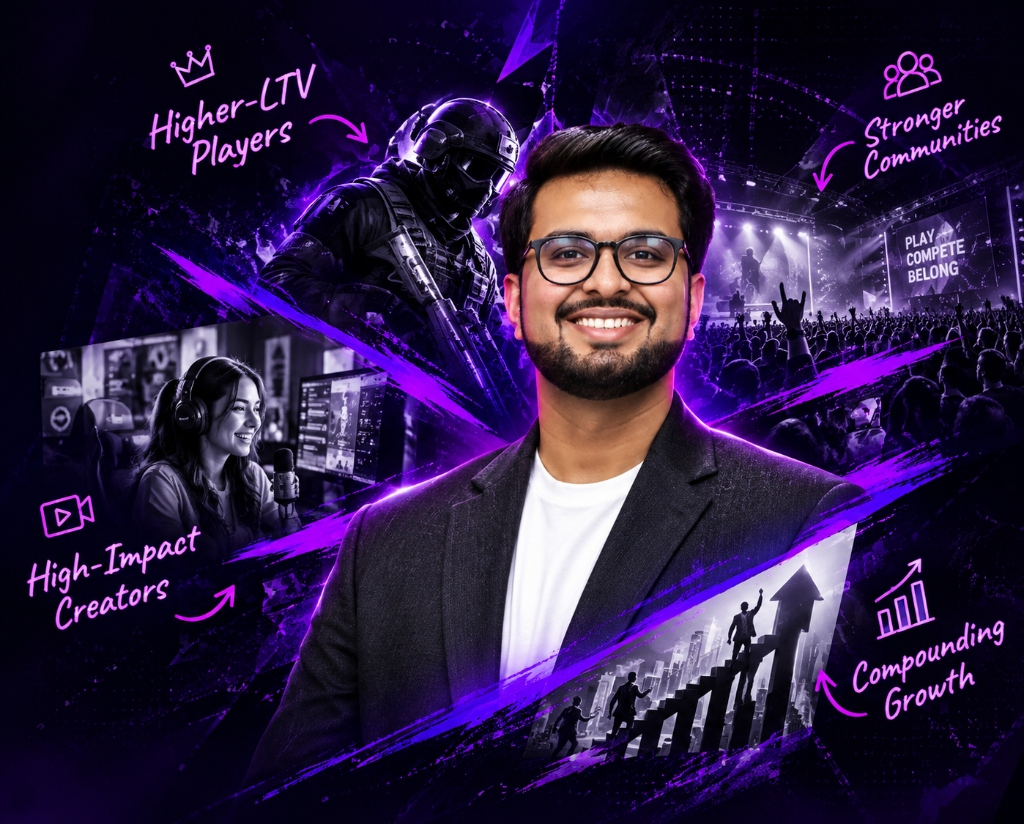
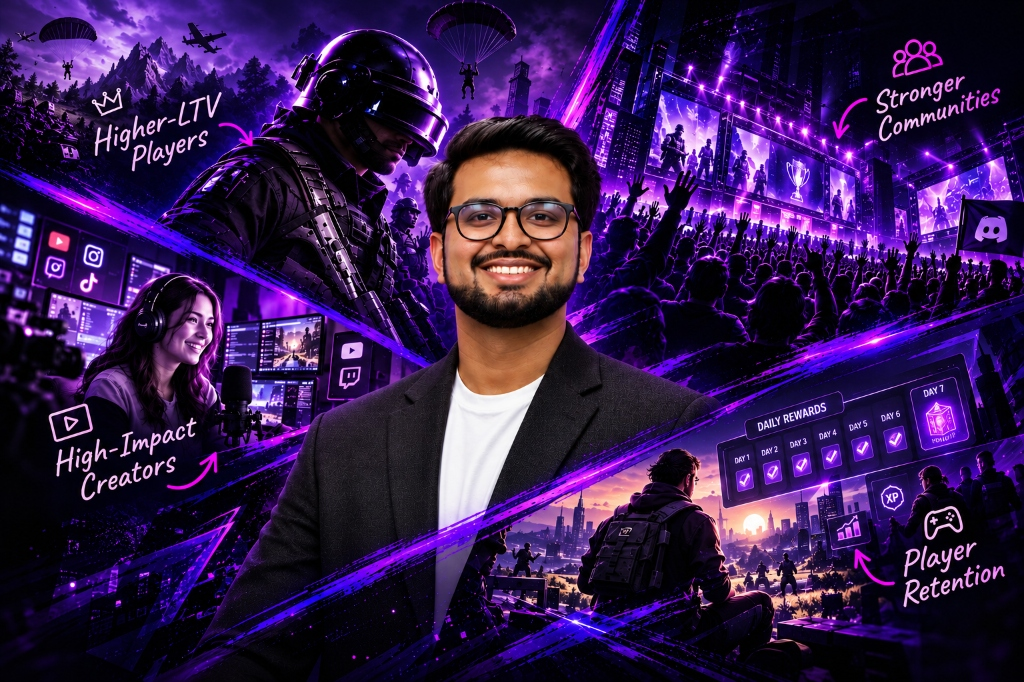
feat: update hero image, fix 3D services flip interaction, and localize community assets

diff --git a/src/frontend/src/components/Services.tsx b/src/frontend/src/components/Services.tsx
@@ -1,6 +1,5 @@
 import { useScrollReveal } from "@/hooks/useScrollReveal";
-import { motion } from "motion/react";
-import { useState } from "react";
+import { useState, useEffect } from "react";
 
 interface ServiceItem {
   title: string;
@@ -140,36 +139,43 @@ const categories: ServiceCategory[] = [
 function FlipServiceCard({
   service,
   index,
+  isFlipped,
+  onToggle,
+  onReset,
 }: {
   service: ServiceItem;
   index: number;
+  isFlipped: boolean;
+  onToggle: () => void;
+  onReset: () => void;
 }) {
-  const [isFlipped, setIsFlipped] = useState(false);
+  const handleKeyDown = (e: React.KeyboardEvent<HTMLDivElement>) => {
+    if (e.key === "Enter" || e.key === " ") {
+      e.preventDefault();
+      onToggle();
+    }
+  };
 
   return (
     <div
       className={`flip-card h-[290px] w-full cursor-pointer select-none ${
         isFlipped ? "flipped" : ""
       }`}
-      onClick={() => setIsFlipped((prev) => !prev)}
-      onPointerEnter={() => setIsFlipped(true)}
-      onPointerLeave={() => setIsFlipped(false)}
-      onTouchStart={() => setIsFlipped((prev) => !prev)}
-      onKeyDown={(e) => {
-        if (e.key === "Enter" || e.key === " ") {
-          e.preventDefault();
-          setIsFlipped((prev) => !prev);
-        }
-      }}
+      onClick={onToggle}
+      onMouseLeave={onReset}
+      onKeyDown={handleKeyDown}
       tabIndex={0}
       role="button"
-      aria-label={`${service.title} - Click or hover to view details`}
+      aria-expanded={isFlipped}
+      aria-label={`${service.title} - ${
+        isFlipped ? "Flipped, showing details" : "Hover or tap to view details"
+      }`}
       data-ocid={`services.item.${index + 1}`}
     >
       <div className="flip-card-inner h-full w-full">
         {/* ── Front Side ── */}
         <div
-          className="flip-card-front overflow-hidden rounded-2xl relative"
+          className="flip-card-front rounded-2xl relative"
           style={{
             border: "1px solid rgba(182, 32, 245, 0.4)",
             boxShadow:
@@ -181,7 +187,7 @@ function FlipServiceCard({
           <img
             src={service.image}
             alt={service.title}
-            className="absolute inset-0 w-full h-full object-cover object-center transition-transform duration-700 hover:scale-105"
+            className="absolute inset-0 w-full h-full object-cover object-center rounded-2xl transition-transform duration-700 hover:scale-105"
             style={{
               filter: "brightness(0.9) contrast(1.08)",
             }}
@@ -189,7 +195,7 @@ function FlipServiceCard({
 
           {/* Dark bottom gradient overlay for clear text readability */}
           <div
-            className="absolute inset-0 pointer-events-none"
+            className="absolute inset-0 pointer-events-none rounded-2xl"
             style={{
               background:
                 "linear-gradient(to top, rgba(5,6,17,0.95) 0%, rgba(5,6,17,0.7) 40%, rgba(5,6,17,0.15) 75%, transparent 100%)",
@@ -209,7 +215,7 @@ function FlipServiceCard({
 
         {/* ── Reverse / Back Side ── */}
         <div
-          className="flip-card-back p-5 flex flex-col justify-between overflow-hidden rounded-2xl"
+          className="flip-card-back p-5 flex flex-col justify-between rounded-2xl"
           style={{
             background:
               "linear-gradient(145deg, oklch(0.15 0.08 295), oklch(0.10 0.05 295))",
@@ -260,6 +266,27 @@ function FlipServiceCard({
 
 export function Services() {
   const titleRef = useScrollReveal();
+  const [activeCardKey, setActiveCardKey] = useState<string | null>(null);
+
+  useEffect(() => {
+    if (!activeCardKey) return;
+
+    const handleOutsidePointer = (e: PointerEvent | MouseEvent | TouchEvent) => {
+      const target = e.target as HTMLElement | null;
+      if (!target?.closest(".flip-card")) {
+        setActiveCardKey(null);
+      }
+    };
+
+    document.addEventListener("pointerdown", handleOutsidePointer);
+    return () => {
+      document.removeEventListener("pointerdown", handleOutsidePointer);
+    };
+  }, [activeCardKey]);
+
+  const handleToggleCard = (cardKey: string) => {
+    setActiveCardKey((prev) => (prev === cardKey ? null : cardKey));
+  };
 
   return (
     <section
@@ -337,13 +364,19 @@ export function Services() {
 
               {/* Two Service Cards grouped under this category */}
               <div className="grid grid-cols-1 sm:grid-cols-2 gap-4">
-                {cat.services.map((service, serviceIdx) => (
-                  <FlipServiceCard
-                    key={service.title}
-                    service={service}
-                    index={catIdx * 2 + serviceIdx}
-                  />
-                ))}
+                {cat.services.map((service, serviceIdx) => {
+                  const cardKey = `${cat.number}-${serviceIdx}`;
+                  return (
+                    <FlipServiceCard
+                      key={service.title}
+                      service={service}
+                      index={catIdx * 2 + serviceIdx}
+                      isFlipped={activeCardKey === cardKey}
+                      onToggle={() => handleToggleCard(cardKey)}
+                      onReset={() => setActiveCardKey(null)}
+                    />
+                  );
+                })}
               </div>
             </div>
           ))}

diff --git a/src/frontend/src/components/CommunityGrowth.tsx b/src/frontend/src/components/CommunityGrowth.tsx
@@ -1,19 +1,17 @@
 import { useScrollReveal } from "@/hooks/useScrollReveal";
 import { useCallback, useEffect, useRef, useState } from "react";
 
-const driveUrl = (id: string) => `https://lh3.googleusercontent.com/d/${id}`;
-
 const carouselImages = [
   {
-    id: "1RVKMO5ixbCbECRXMZO-3BmFlsKqLjrYf",
+    src: "/assets/community/play-with-creators-1.png",
     alt: "Play with Creators – Session 1",
   },
   {
-    id: "1ardHmdgO3oFiEgEx3qcIB8D-0_0-WXzE",
+    src: "/assets/community/play-with-creators-2.png",
     alt: "Play with Creators – Session 2",
   },
   {
-    id: "15KcN-HkbU4lTcWelebvL_up2PHna6CFo",
+    src: "/assets/community/play-with-creators-3.png",
     alt: "Play with Creators – Session 3",
   },
 ];
@@ -80,12 +78,12 @@ function ImageCarousel() {
       >
         {carouselImages.map((img, i) => (
           <div
-            key={img.id}
+            key={img.src}
             className="flex-shrink-0 w-full overflow-hidden"
             style={{ scrollSnapAlign: "start" }}
           >
             <img
-              src={driveUrl(img.id)}
+              src={img.src}
               alt={img.alt}
               className="w-full h-auto block"
               style={{
@@ -116,7 +114,7 @@ function ImageCarousel() {
         {carouselImages.map((img2, i) => (
           <button
             type="button"
-            key={img2.id}
+            key={img2.src}
             onClick={() => {
               setUserInteracted(true);
               scrollTo(i);
@@ -323,7 +321,7 @@ export function CommunityGrowth() {
                 }}
               >
                 <img
-                  src={driveUrl("1oNmv2NIK-nzKjtiaIeJaEb7oOs7IKobK")}
+                  src="/assets/community/game-nights.png"
                   alt="Game Nights"
                   className="w-full h-auto object-contain block"
                 />
@@ -386,7 +384,7 @@ export function CommunityGrowth() {
                 }}
               >
                 <img
-                  src={driveUrl("1alRzgEoGNG6gYz9gZjegkPUr9hycAcDc")}
+                  src="/assets/community/wishlisting-campaigns.png"
                   alt="Wishlisting Campaigns"
                   className="w-full h-auto object-contain block"
                 />

diff --git a/src/frontend/src/index.css b/src/frontend/src/index.css
@@ -178,8 +178,8 @@
 
   /* ── Flip card ────────────────────────────────── */
   .flip-card {
-    perspective: 1000px;
-    -webkit-perspective: 1000px;
+    perspective: 1200px;
+    -webkit-perspective: 1200px;
   }
   .flip-card-inner {
     position: relative;
@@ -187,11 +187,9 @@
     height: 100%;
     transform-style: preserve-3d;
     -webkit-transform-style: preserve-3d;
-    transition: transform 0.6s cubic-bezier(0.4, 0.2, 0.2, 1);
+    transition: transform 0.65s cubic-bezier(0.4, 0.2, 0.2, 1);
   }
   .flip-card:hover .flip-card-inner,
-  .flip-card:focus-within .flip-card-inner,
-  .flip-card:active .flip-card-inner,
   .flip-card.flipped .flip-card-inner {
     transform: rotateY(180deg);
   }
@@ -199,9 +197,16 @@
   .flip-card-back {
     position: absolute;
     inset: 0;
+    width: 100%;
+    height: 100%;
     backface-visibility: hidden;
     -webkit-backface-visibility: hidden;
+    transform-style: preserve-3d;
+    -webkit-transform-style: preserve-3d;
     border-radius: 16px;
+  }
+  .flip-card-front {
+    transform: rotateY(0deg);
   }
   .flip-card-back {
     transform: rotateY(180deg);

diff --git a/src/frontend/src/components/EsportsAthlete.tsx b/src/frontend/src/components/EsportsAthlete.tsx
@@ -74,7 +74,7 @@ export function EsportsAthlete() {
           {/* Full image, no cropping, reduced to max-w-xs */}
           <div className="flex justify-center mt-6 mb-6">
             <img
-              src="https://lh3.googleusercontent.com/d/1TsP0pM2bQlp87LyJQcdUBMt27DxAjkV6"
+              src="/assets/uploads/competitive-gaming-edge.jpg"
               alt="Competitive Gaming Edge"
               className="rounded-2xl w-full max-w-xs"
               style={{

diff --git a/src/frontend/src/components/Experience.tsx b/src/frontend/src/components/Experience.tsx
@@ -3,7 +3,7 @@ import { useEffect, useRef, useState } from "react";
 const roles = [
   {
     company: "Playrift",
-    logo: "https://drive.google.com/thumbnail?id=13UgF1s3O6E1tgZVVfScFktUqiMnt-LiE&sz=w400",
+    logo: "/assets/community/playrift-logo.png",
     location: "Remote",
     tags: [
       "GTM Strategy",
